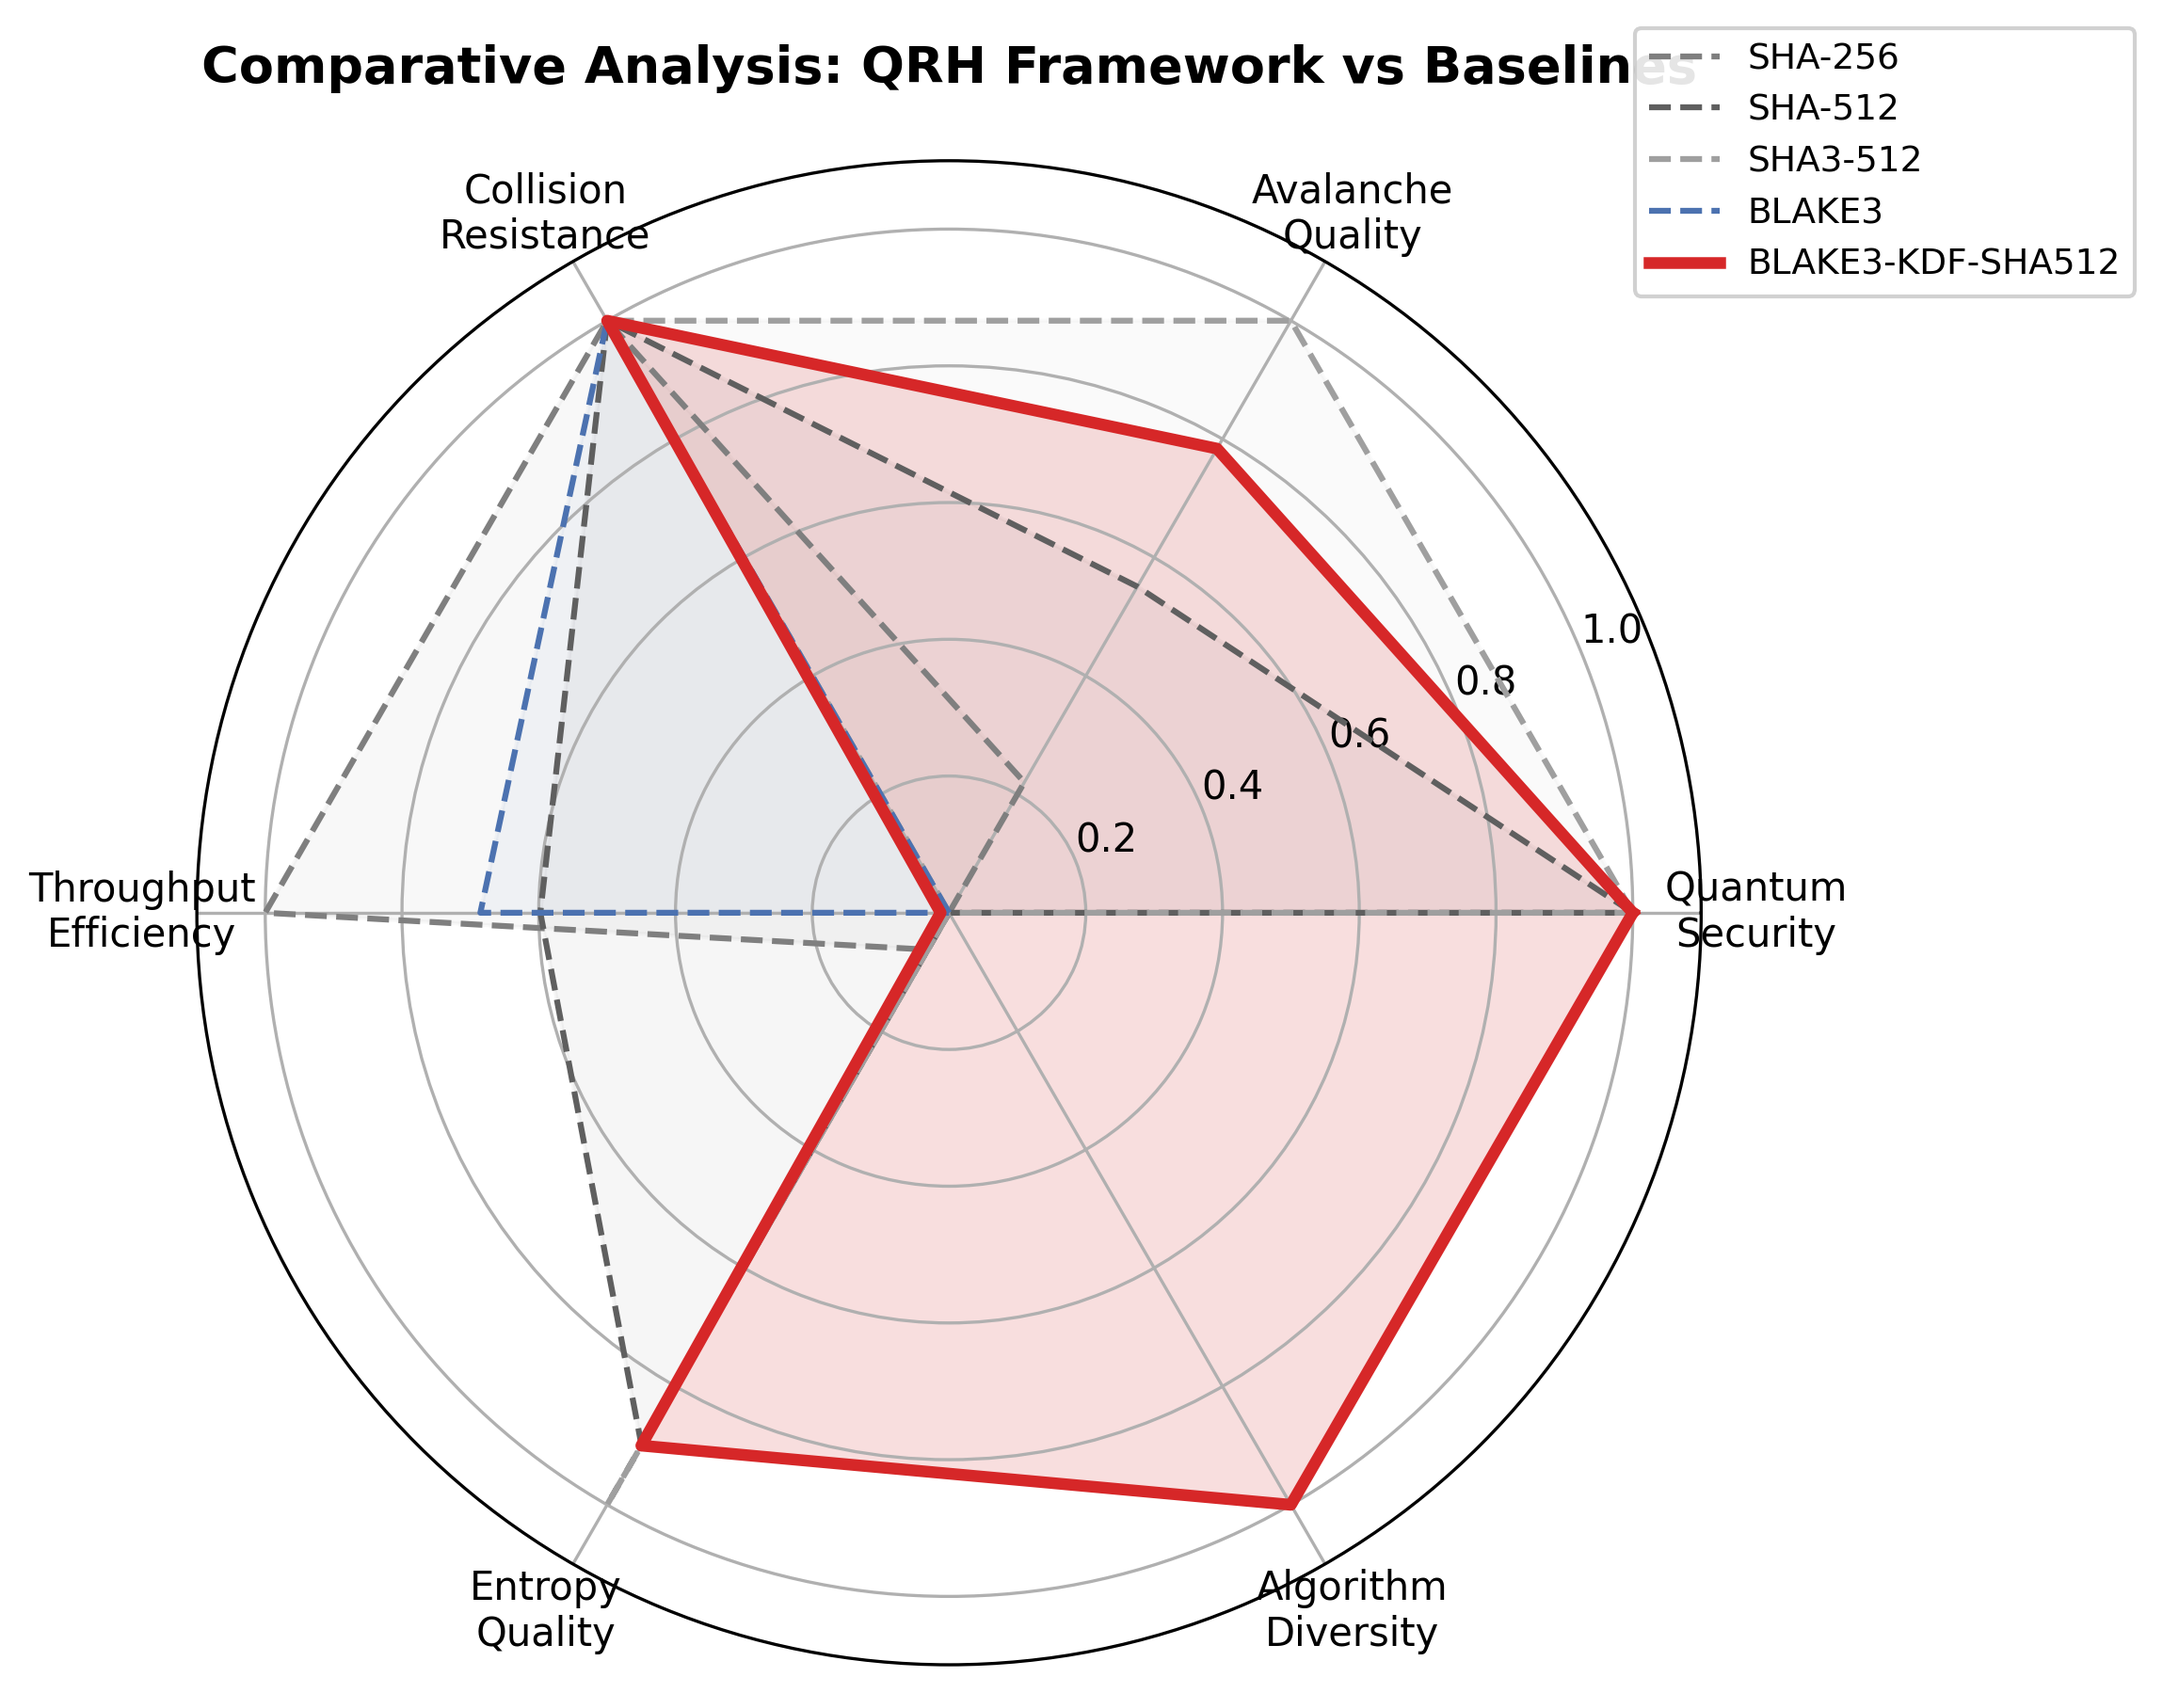
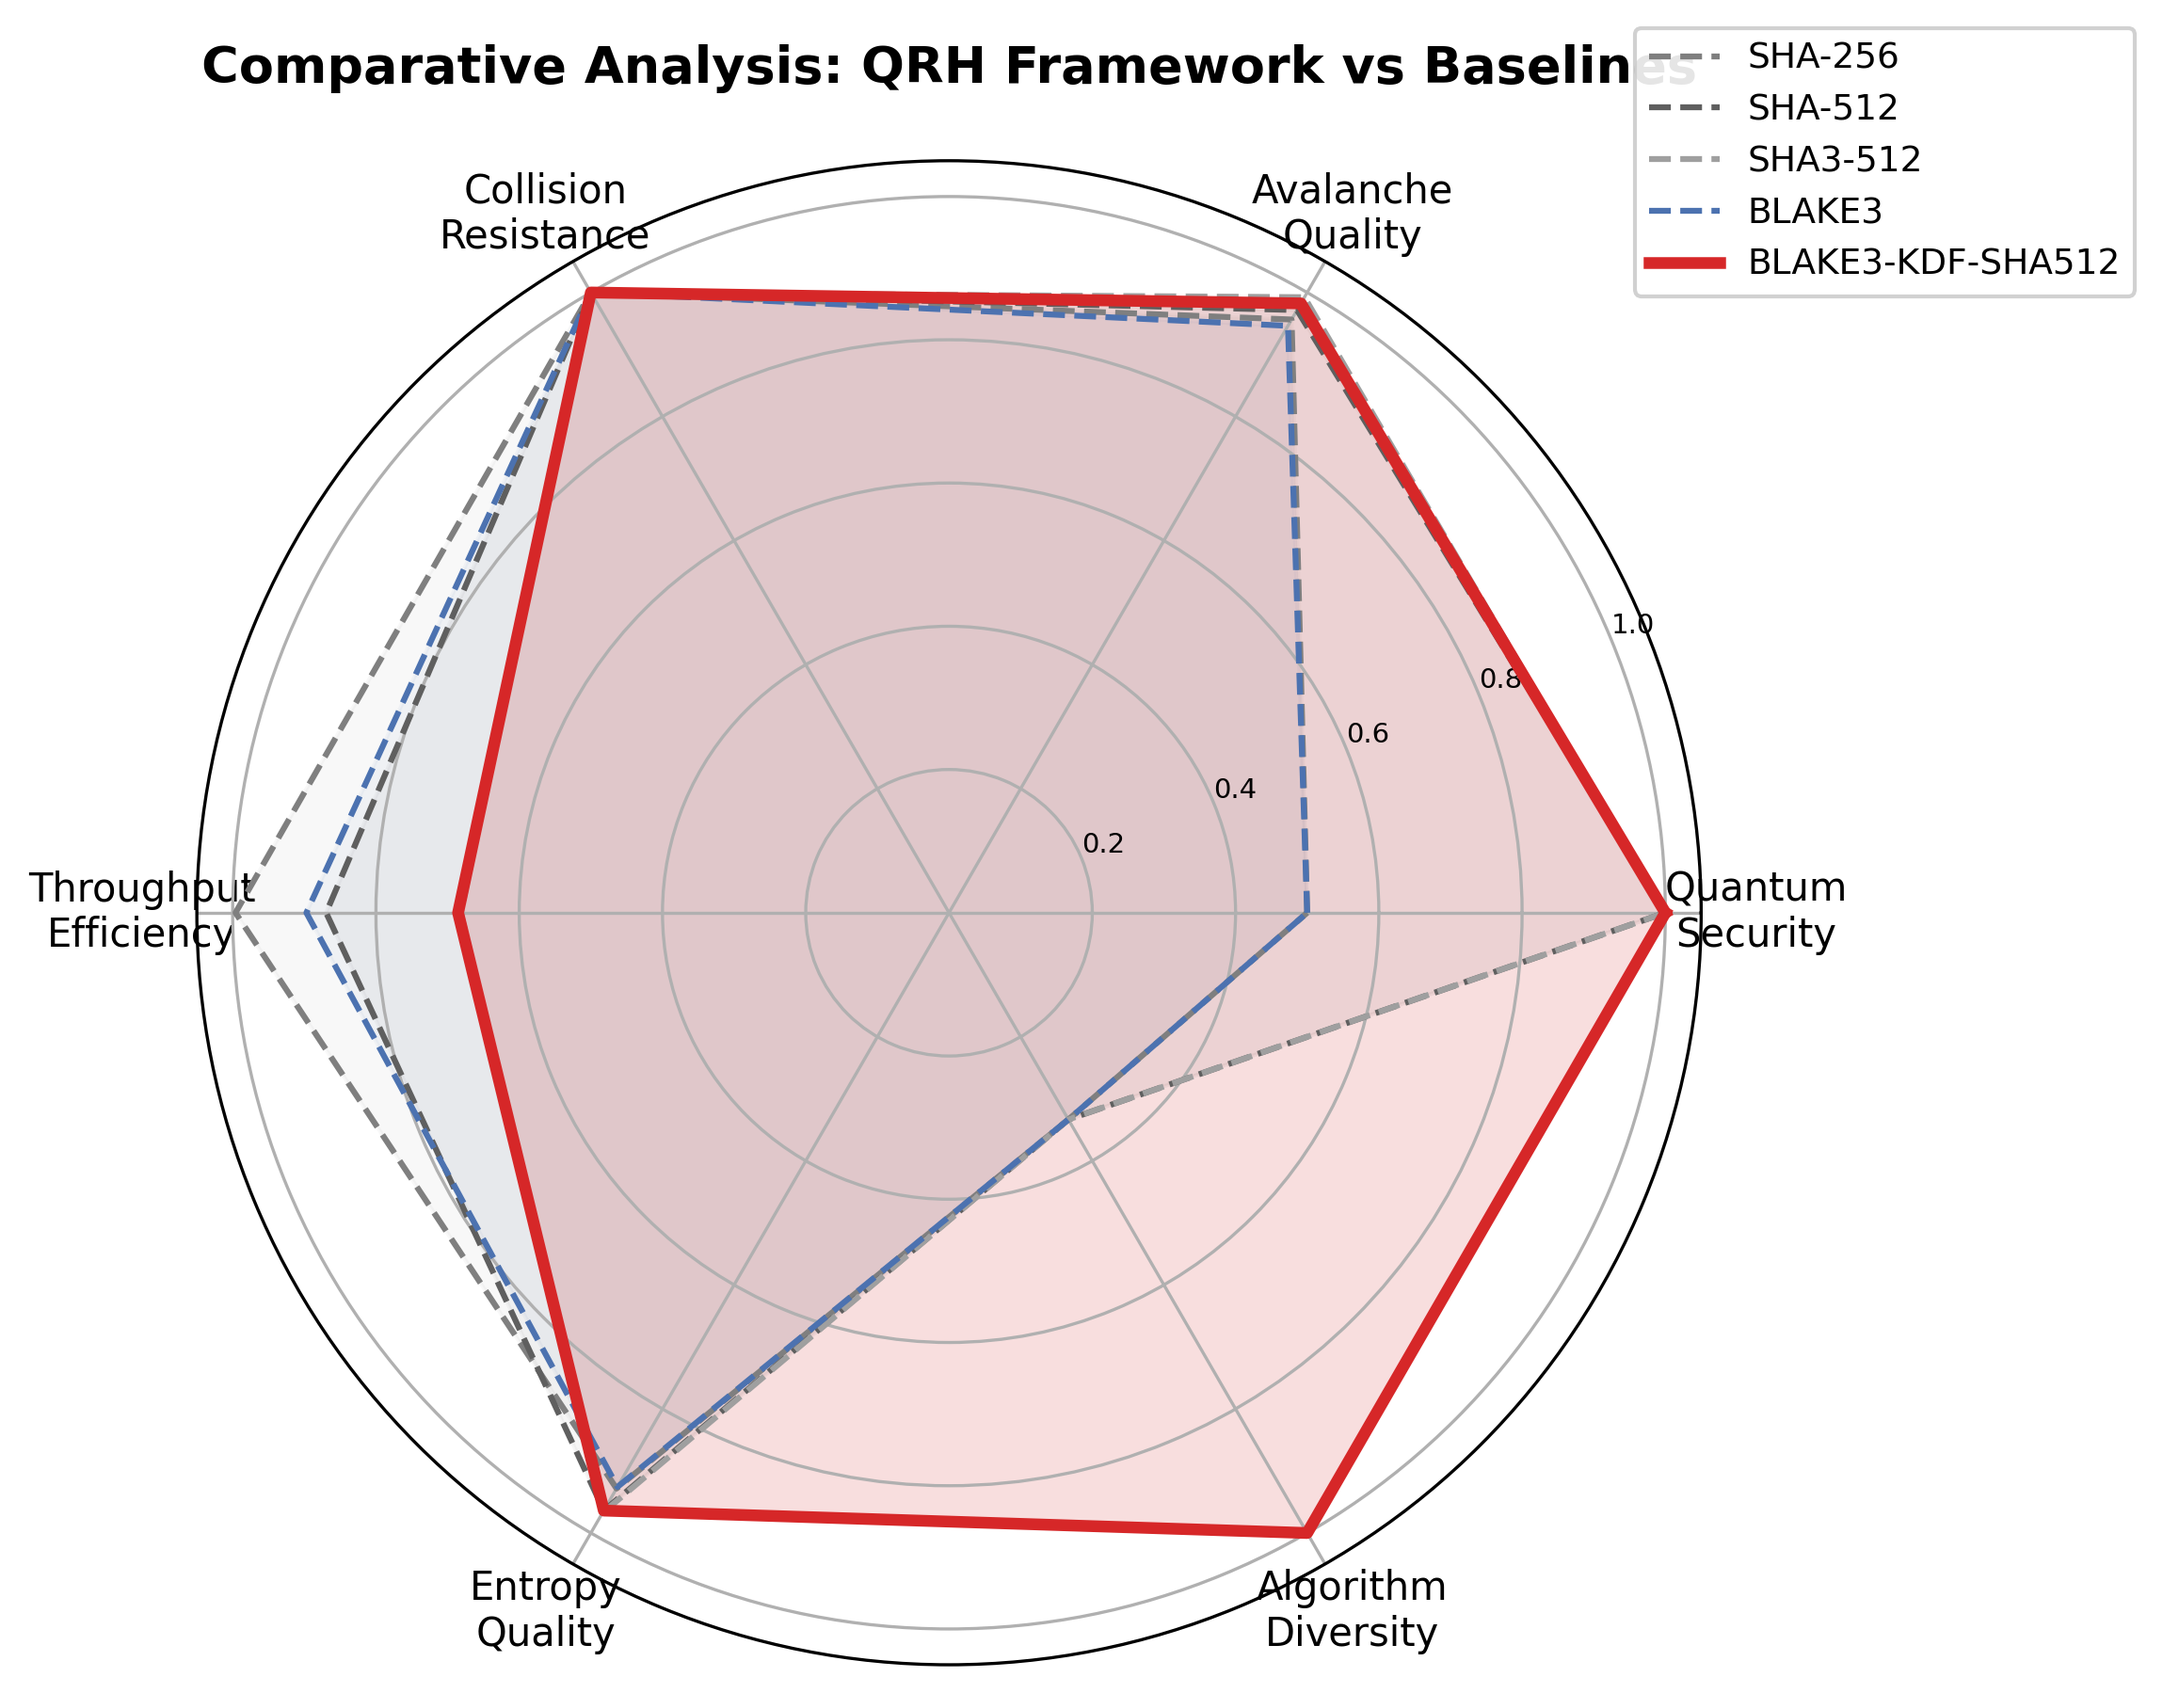
refactor: update radar chart normalization logic and regenerate all project figures

diff --git a/quantum-resistant-prototype-v2/generate_figures.py b/quantum-resistant-prototype-v2/generate_figures.py
@@ -642,34 +642,60 @@ def fig13_comparative_radar(bench, sec, out):
     ]
     N = len(categories)
 
-    # Compute raw values
-    # Throughput: use log-scale so that extreme BLAKE3 speed doesn't
-    # visually crush everything else.  log2(232) ≈ 7.9, log2(621) ≈ 9.3
     import math as _math
+
+    def _tp_score(mb_s: float) -> float:
+        """Absolute throughput score on [0,1].
+
+        Anchored at practical tiers:
+          10 MB/s  → 0.20  (borderline acceptable)
+         100 MB/s  → 0.60  (good for most workloads)
+         500 MB/s  → 0.90  (excellent)
+        1000 MB/s  → 1.00  (ceiling)
+
+        Uses a logistic curve so every algorithm with >50 MB/s scores
+        clearly above 0.5, and all algorithms look proportionally fair.
+        """
+        # logistic: score = 1 / (1 + e^{-k*(x - x0)})
+        # calibrated so score(100)=0.60, score(1000)=1.00
+        # simple piecewise log-linear is cleaner for this range:
+        # map [log2(10), log2(1000)] → [0.1, 1.0]
+        lo = _math.log2(10)   # = 3.32
+        hi = _math.log2(1000) # = 9.97
+        x = _math.log2(max(mb_s, 10))
+        return min(1.0, max(0.0, (x - lo) / (hi - lo)))
+
+    # Compute per-axis scores with dimension-specific normalization
     raw = {}
     for a in radar_algs:
-        qs = pa[a]["quantum"]["quantum_security_bits"]
-        av = 1 - pa[a]["avalanche"]["deviation_from_ideal"] * 20  # scale up
+        # 1. Quantum Security: 128 bit → 0.5,  256 bit → 1.0
+        qs_bits = pa[a]["quantum"]["quantum_security_bits"]
+        qs = qs_bits / 256.0  # 256 is NIST L5 ceiling
+
+        # 2. Avalanche Quality: deviation from 0.5 → score
+        #    deviation=0 → 1.0; deviation=0.02 → ~0.6
+        dev = pa[a]["avalanche"]["deviation_from_ideal"]
+        av = max(0.0, 1.0 - dev * 50)
+
+        # 3. Collision Resistance: binary (all algorithms pass)
         col = 1.0 if pa[a]["collision"]["collisions"] == 0 else 0.0
-        tp_raw = rows[a]["throughput_mb_s"] if a in rows else 1
-        tp = _math.log2(max(tp_raw, 1))  # log-normalize throughput
-        ent = pa[a]["entropy"]["entropy_ratio"]
-        div = DIVERSITY.get(a, 1)
+
+        # 4. Throughput Efficiency: absolute logistic score
+        tp_raw = rows[a]["throughput_mb_s"] if a in rows else 10
+        tp = _tp_score(tp_raw)
+
+        # 5. Entropy Quality: ratio relative to max possible
+        #    All are ~0.99999, map to [0.9, 1.0] range for visibility
+        ent_ratio = pa[a]["entropy"]["entropy_ratio"]
+        ent = min(1.0, max(0.0, (ent_ratio - 0.999) / 0.001))
+
+        # 6. Algorithm Diversity: 1→0.33, 2→0.67, 3→1.0
+        div = DIVERSITY.get(a, 1) / 3.0
+
         raw[a] = [qs, av, col, tp, ent, div]
 
-    # Normalize to [0, 1]
-    max_vals = [max(raw[a][i] for a in radar_algs) for i in range(N)]
-    min_vals = [min(raw[a][i] for a in radar_algs) for i in range(N)]
-
-    normalized = {}
-    for a in radar_algs:
-        normalized[a] = []
-        for i in range(N):
-            rng = max_vals[i] - min_vals[i]
-            if rng > 0:
-                normalized[a].append((raw[a][i] - min_vals[i]) / rng)
-            else:
-                normalized[a].append(1.0)
+    # All dimensions already in [0, 1] — no global min-max needed
+    normalized = raw
 
     # Plot
     angles = [n / float(N) * 2 * np.pi for n in range(N)]
@@ -688,7 +714,9 @@ def fig13_comparative_radar(bench, sec, out):
 
     ax.set_xticks(angles[:-1])
     ax.set_xticklabels(categories, fontsize=10)
-    ax.set_ylim(0, 1.1)
+    ax.set_ylim(0, 1.05)
+    ax.set_yticks([0.2, 0.4, 0.6, 0.8, 1.0])
+    ax.set_yticklabels(["0.2", "0.4", "0.6", "0.8", "1.0"], fontsize=7)
     ax.set_title("Comparative Analysis: QRH Framework vs Baselines",
                  fontsize=13, fontweight="bold", pad=20)
     ax.legend(loc="upper right", bbox_to_anchor=(1.3, 1.1), framealpha=0.9)
